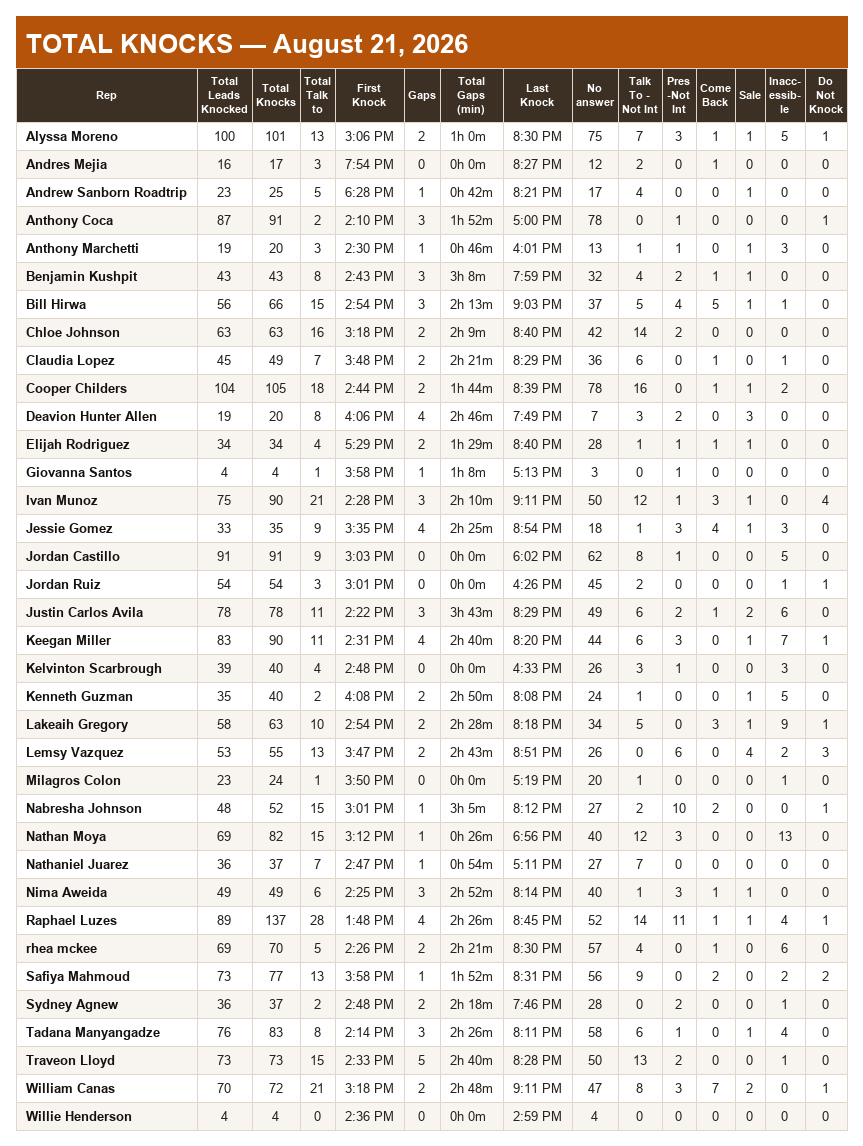
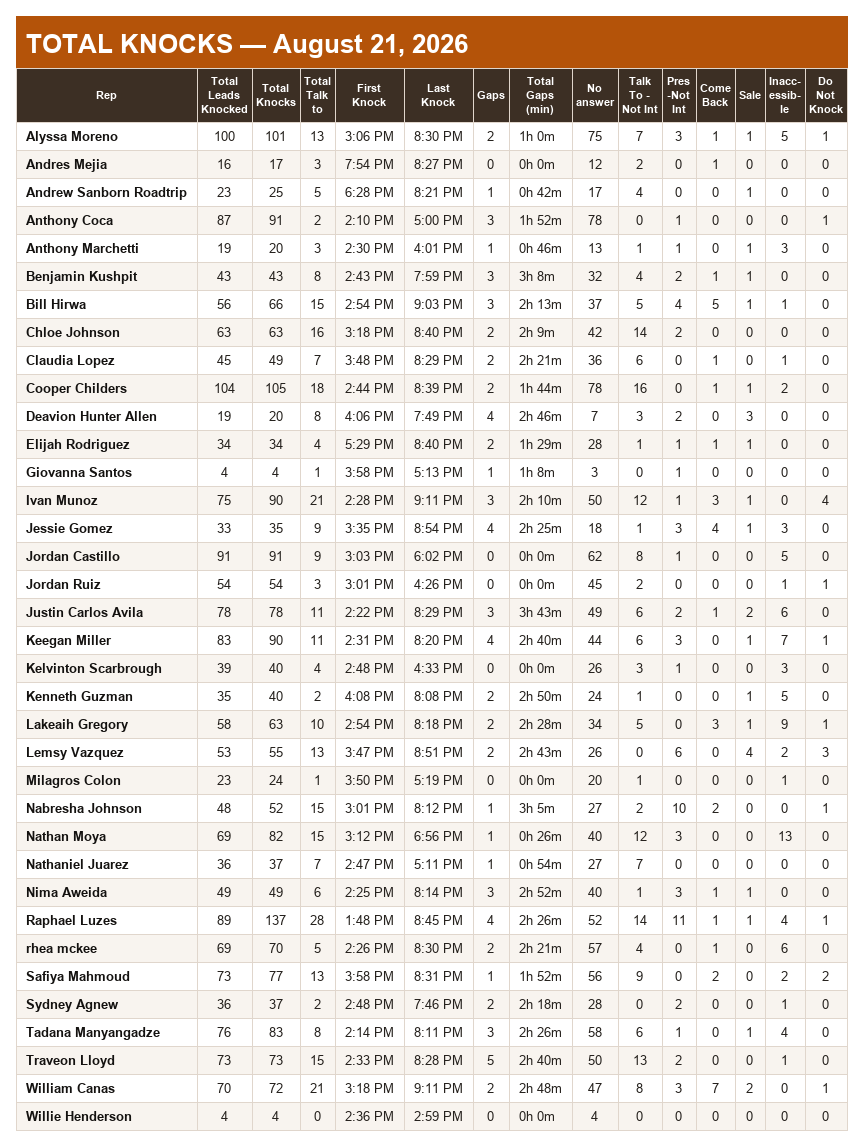
combined knocks board: first + last knock side by side
- raf (slack, 8/22): the two knock-time columns sit together now, with
  Gaps + Total Gaps right after the pair; preview refreshed

Changed region(s): [[0.482, 0.0611, 0.6628, 0.9773]]

diff --git a/automations/total_knocks/render.py b/automations/total_knocks/render.py
@@ -58,7 +58,8 @@ TOTAL_KNOCKS_NCOL = 14
 # Gaps post for fiber offices. Alphabetical by rep, headers wrapped tight.
 COMBINED_KNOCKS_COLUMNS = [
     COL_REP, COL_TOTAL_LEADS_KNOCKED, COL_TOTAL_KNOCKS, COL_TOTAL_TALK_TO,
-    COL_FIRST_KNOCK, COL_GAPS, COL_TOTAL_GAPS, COL_LAST_KNOCK,
+    # First + Last Knock side by side (Raf 2026-08-22), gaps right after.
+    COL_FIRST_KNOCK, COL_LAST_KNOCK, COL_GAPS, COL_TOTAL_GAPS,
     COL_NO_ANSWER, COL_TALK_TO_NI, COL_PRES_NI, COL_COME_BACK, COL_SALE,
     COL_INACCESSIBLE, COL_DO_NOT_KNOCK,
 ]
